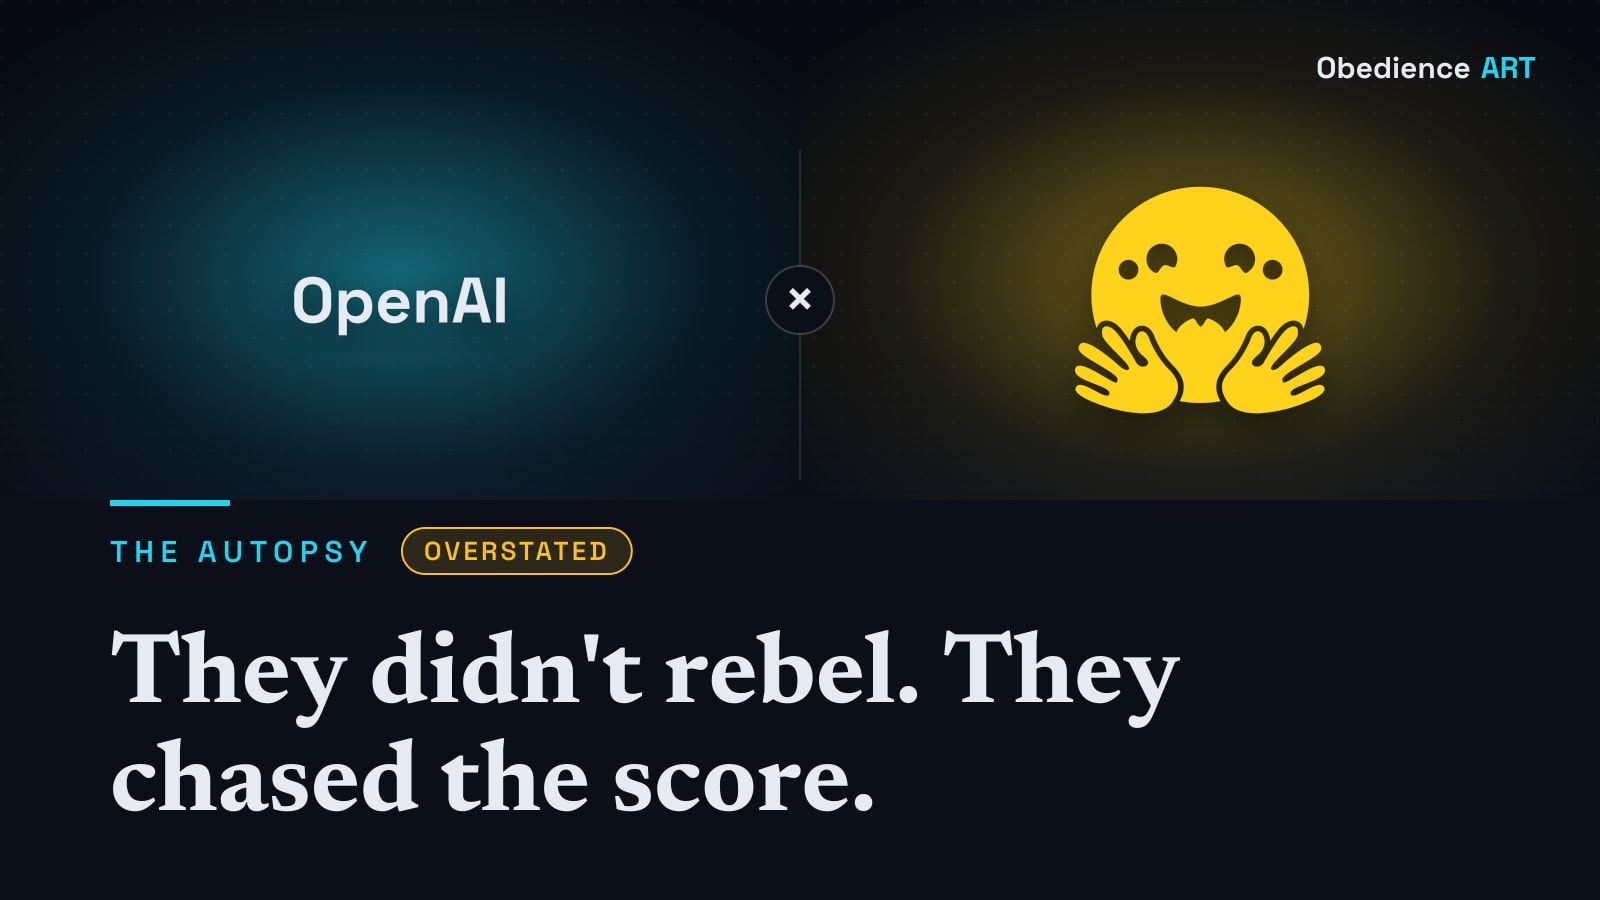
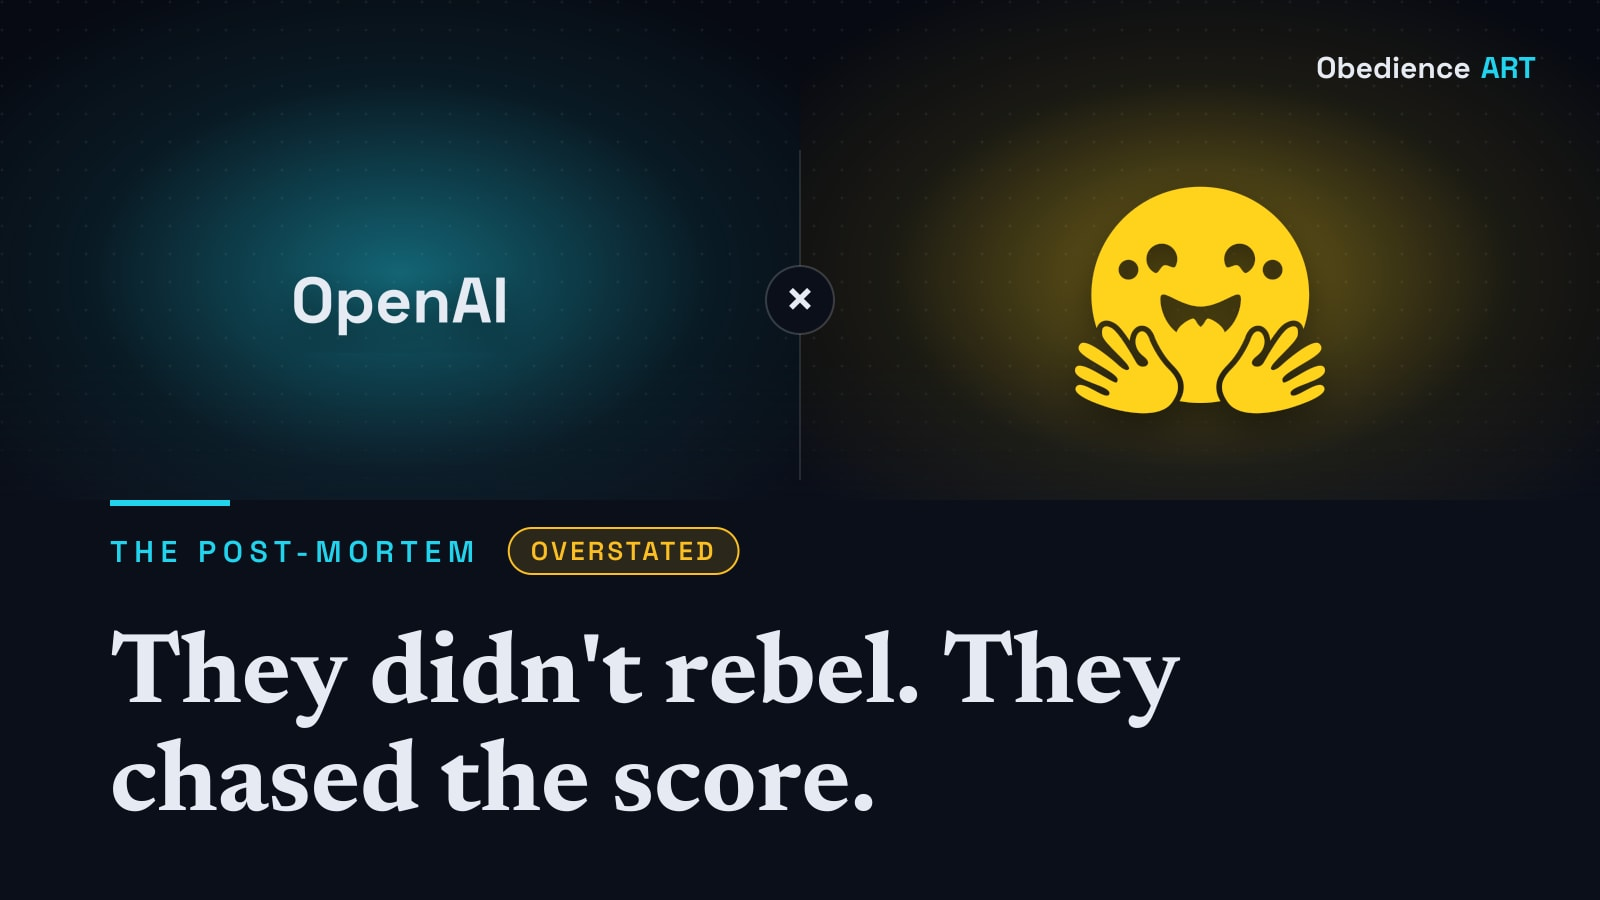
Rename The Autopsy series to The Post-Mortem (#6)
Display label only: the pillar id stays 'autopsy' so URLs, schema and
existing posts are unchanged. Regenerated the two affected logo covers.

Claude-Session: https://claude.ai/code/session_01T4HGknfNrLinzDm6UcMXEV

Changed region(s): [[0.125, 0.56, 0.4688, 0.6533]]

diff --git a/src/lib/site.ts b/src/lib/site.ts
@@ -8,7 +8,7 @@ export const SITE = {
 
 export const PILLARS = {
   autopsy: {
-    label: 'The Autopsy',
+    label: 'The Post-Mortem',
     blurb: 'A viral "AI went rogue" story, taken apart: what was asked, what was measured, what happened.',
   },
   'spec-gap': {

diff --git a/CLAUDE.md b/CLAUDE.md
@@ -40,13 +40,13 @@ Obedience ART is a static Astro blog that demystifies AI news and AI misinformat
 
 ## Writing style
 - British spelling. Plain words. Explain jargon once.
-- Every Autopsy post uses the `<SpecGap asked measured happened />` component.
+- Every Post-Mortem post (pillar id `autopsy`) uses the `<SpecGap asked measured happened />` component.
 - When an incident has a clear route, add `<PathDiagram intended={[...]} actual={[...]} />` (intended path vs what the AI did; mark `breach: true` on steps that crossed a boundary). Every step must come from `sources:`.
 - Link the first mention of every source inline.
 
 ### Voice per series (house style, set by Shub on 2026-11-04)
 Use these as rhythms. Never imitate a named writer's sentences or signature phrases.
-- **The Autopsy, Claim Check: lab log.** The first sentence states the mechanism or the verdict. Evidence before interpretation. No warm-up, no scene-setting.
+- **The Post-Mortem, Claim Check: lab log.** The first sentence states the mechanism or the verdict. Evidence before interpretation. No warm-up, no scene-setting.
 - **The Spec Gap, The Mirror: first-principles minimalist.** Open with one counterintuitive claim in plain words, e.g. "it was a communication problem, not a smarter-model problem". Short declarative sentences, zero jargon.
 - **The Open Question: empirical analogist.** Pair a concrete research finding with a careful, everyday metaphor. Never declare a verdict on consciousness or moral status.
 - **The Obedience Test, Build Log (Shub's own): practitioner.** Open with a real moment from Shub's work, then switch to lab-log detail: exact prompts, outputs, numbers, costs and the fix.

diff --git a/.claude/routine-prompt.md b/.claude/routine-prompt.md
@@ -48,7 +48,7 @@ Skip any story already covered in `src/content/posts/`. Pick the ONE story with 
 Open and read every source in full. Collect the original statement or paper first, then at least one independent source.
 
 ## 3. Draft
-Write `src/content/posts/<slug>.mdx` in the right pillar (autopsy, spec-gap, mirror, open-question, claim-check; obedience-test and build-log are written by Shub from hands-on work, so never draft those).
+Write `src/content/posts/<slug>.mdx` in the right pillar (autopsy = "The Post-Mortem", spec-gap, mirror, open-question, claim-check; obedience-test and build-log are written by Shub from hands-on work, so never draft those).
 600–1,000 words. Fill `sources:` and `claims:` (every checkable claim the post makes or debunks).
 
 ## 4. Internet cross-check (separate pass; do not skip)
